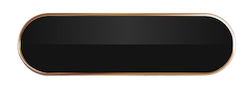
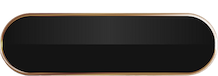
organizing code into classes, need to work on button

diff --git a/src/game_runtime.py b/src/game_runtime.py
@@ -5,8 +5,9 @@ from pygame.locals import *
 
 import constants as const
 from characters import Player
-from functions import draw_functions
 from ui import Button
+from ui import Screen
+
 
 logging.basicConfig(filename="./logs/runtime.log", format='%(asctime)s %(message)s', filemode='w')
 log = logging.getLogger()
@@ -26,16 +27,29 @@ def main():
     game_state = const.START_SCREEN
     log.info(f"Loading game state: {game_state}")
     
-    default_bg = pygame.Surface(const.SCREEN.get_size())
-    default_bg = default_bg.convert()
-    default_bg.fill(const.BLACK)
-    const.SCREEN.blit(default_bg, (0,0))
-
+    screen = Screen.Screen()
     P1 = Player.Player()
+    
+    print(pygame.font.get_fonts())
+    
+    image_background_title = pygame.image.load("assets/background/BackgroundTitle.png")
+    screen.draw_image(image_background_title, (0,0))
+    image_logo = pygame.image.load("assets/background/Logo.png")
+    screen.draw_image(image_logo,  (const.RESOLUTION_WIDTH/2 - image_logo.get_width()/2, const.RESOLUTION_HEIGHT/2 - image_logo.get_height() + 150))
     
     while running:
         # cursor_pos = pygame.mouse.get_pos()
         # pressed = pygame.mouse.get_pressed()[0]
+        screen_surface = screen.get_screen()
+        if game_state == const.START_SCREEN:
+            button = Button.Button(screen_surface)
+            button.draw("NEW GAME", (const.RESOLUTION_WIDTH/2 - image_logo.get_width()/2,300), 'm')
+        elif game_state == const.IN_GAME:
+            # const.SCREEN.blit(default_bg, (0,0))
+            # P1.draw(const.SCREEN)
+            # P1.update()
+            pass
+        
         
         for event in pygame.event.get():
             if event.type == QUIT:
@@ -51,18 +65,8 @@ def main():
                         log.info(f"Loading game state: {game_state}")
             elif event.type == MOUSEBUTTONDOWN:
                 log.info(f"mouse button clicked at pos: {event.pos}")
-                button = Button.Button("test button", (500,300), 'm')
-                button.draw()
-                logging.info(f"Drawing button")
-
-        if game_state == const.START_SCREEN:
-            draw_functions.draw_start_menu()
-        elif game_state == const.IN_GAME:
-            const.SCREEN.blit(default_bg, (0,0))
-            P1.draw(const.SCREEN)
-            P1.update()
-        
-
+                
+ 
         pygame.display.update()
         fps.tick(const.FRAME_LIMIT)
 

diff --git a/src/ui/Button.py b/src/ui/Button.py
@@ -6,21 +6,20 @@ SMALL = (10, 10)
 MEDIUM = (75, 20)
 
 class Button():
-    def __init__(self, text=None, coord=(0,0), typeButton=None):
+    def __init__(self, surface):
         super().__init__() 
-        self.text = text
-        self.coord = coord
-        self.typeButton = typeButton
+        self.surface = surface
             
-    def draw(self):
-        if self.typeButton == "small":
+    def draw(self, text="", coord=(0,0), typeButton=None):
+        if typeButton == "small":
             button = pygame.Surface(SMALL)
         else:
-            button = pygame.Surface(MEDIUM)
-            button_image = pygame.image.load("assets/UI/ButtonBlack.png")
-            button.set_alpha(100)
-            button.blit(button_image, self.coord)
+            button = self.surface
+            button_image = pygame.image.load("assets/UI/ButtonBlack.png").convert_alpha()
+            button.blit(button_image, coord)
             
-            font = pygame.font.SysFont('impact', 40, bold=False)
-            button_text = font.render(self.text, True, const.WHITE)
-            button.blit(button_text, self.coord)
+            font = pygame.font.SysFont(const.BUTTON_FONT, 30, True)
+            button_text = font.render(text, True, const.WHITE)
+            button.blit(button_text, (coord[0], coord[1]))
+        return button_image
+            

diff --git a/src/ui/Screen.py b/src/ui/Screen.py
@@ -1,0 +1,20 @@
+import pygame
+import constants as const
+
+class Screen():
+    def __init__(self):
+        super().__init__() 
+        self.surface = pygame.display.set_mode((const.RESOLUTION_WIDTH, const.RESOLUTION_HEIGHT))
+        self.surface.fill(const.BLUE)
+            
+    def draw_image(self, image, image_coord = (0,0), fill = None):
+        if fill != None:
+            self.surface.fill(fill)
+        self.surface.blit(image, image_coord)
+            
+    def draw_text(self, surface, text = None, text_coord = (0,0), text_color = const.WHITE, text_size = 40, text_bold = False):
+        font = pygame.font.SysFont(const.TEXT_FONT, text_size, bold=text_bold)
+        start_button_text = font.render(text, True, const.WHITE)
+        
+    def get_screen(self):
+        return self.surface

diff --git a/src/constants.py b/src/constants.py
@@ -14,9 +14,10 @@ BLACK = (0, 0, 0)
 WHITE = (255, 255, 255)
 GREY = (128, 128, 128)
 
-SCREEN = pygame.display.set_mode((RESOLUTION_WIDTH, RESOLUTION_HEIGHT))
-SCREEN.fill(BLACK)
+BUTTON_FONT = "inkfree"
+TEXT_FONT = "inkfree"
 
 START_SCREEN = "start_screen"
+START_SCREEN_ON = "start_screen_on"
 IN_GAME = "in_game"
 END_SCREEN = "end_screen"
